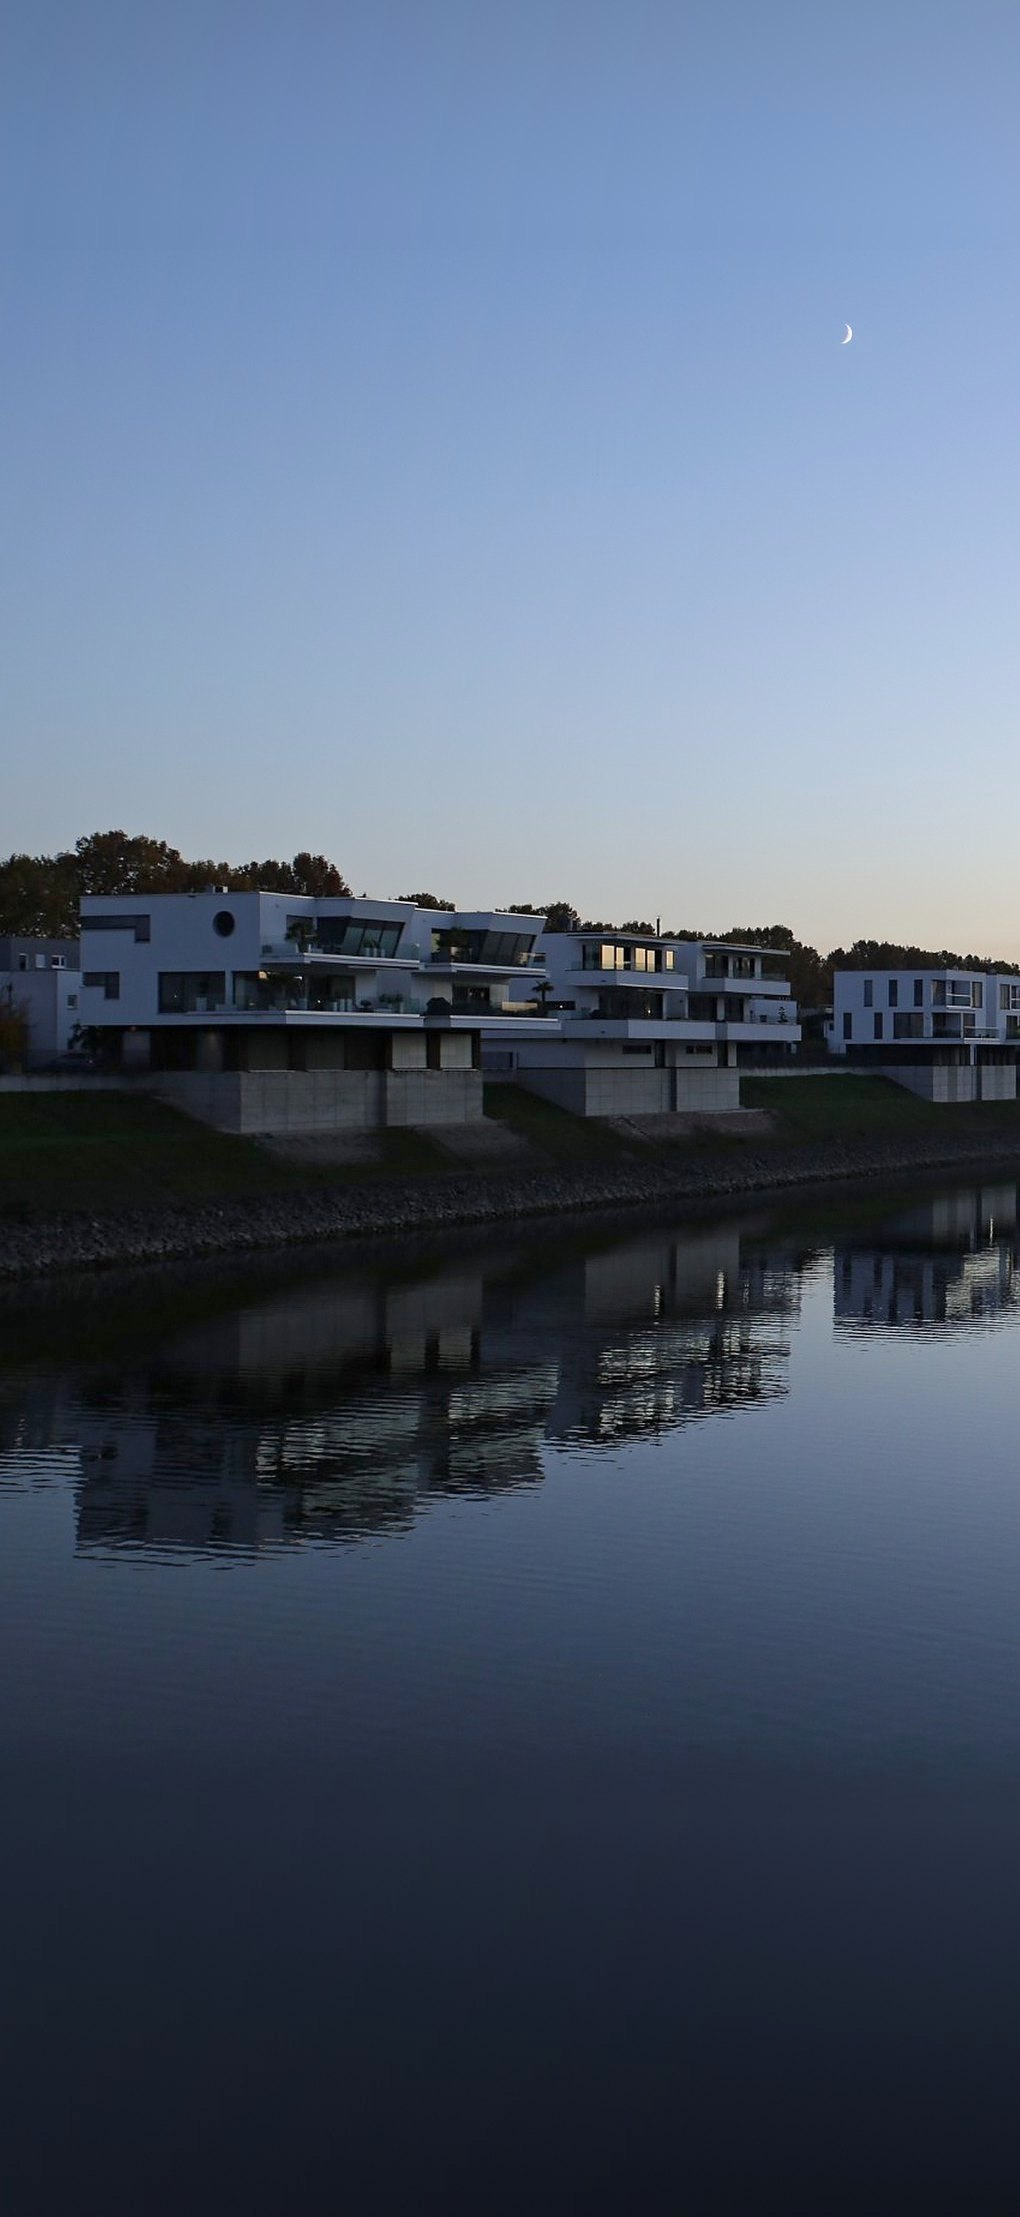
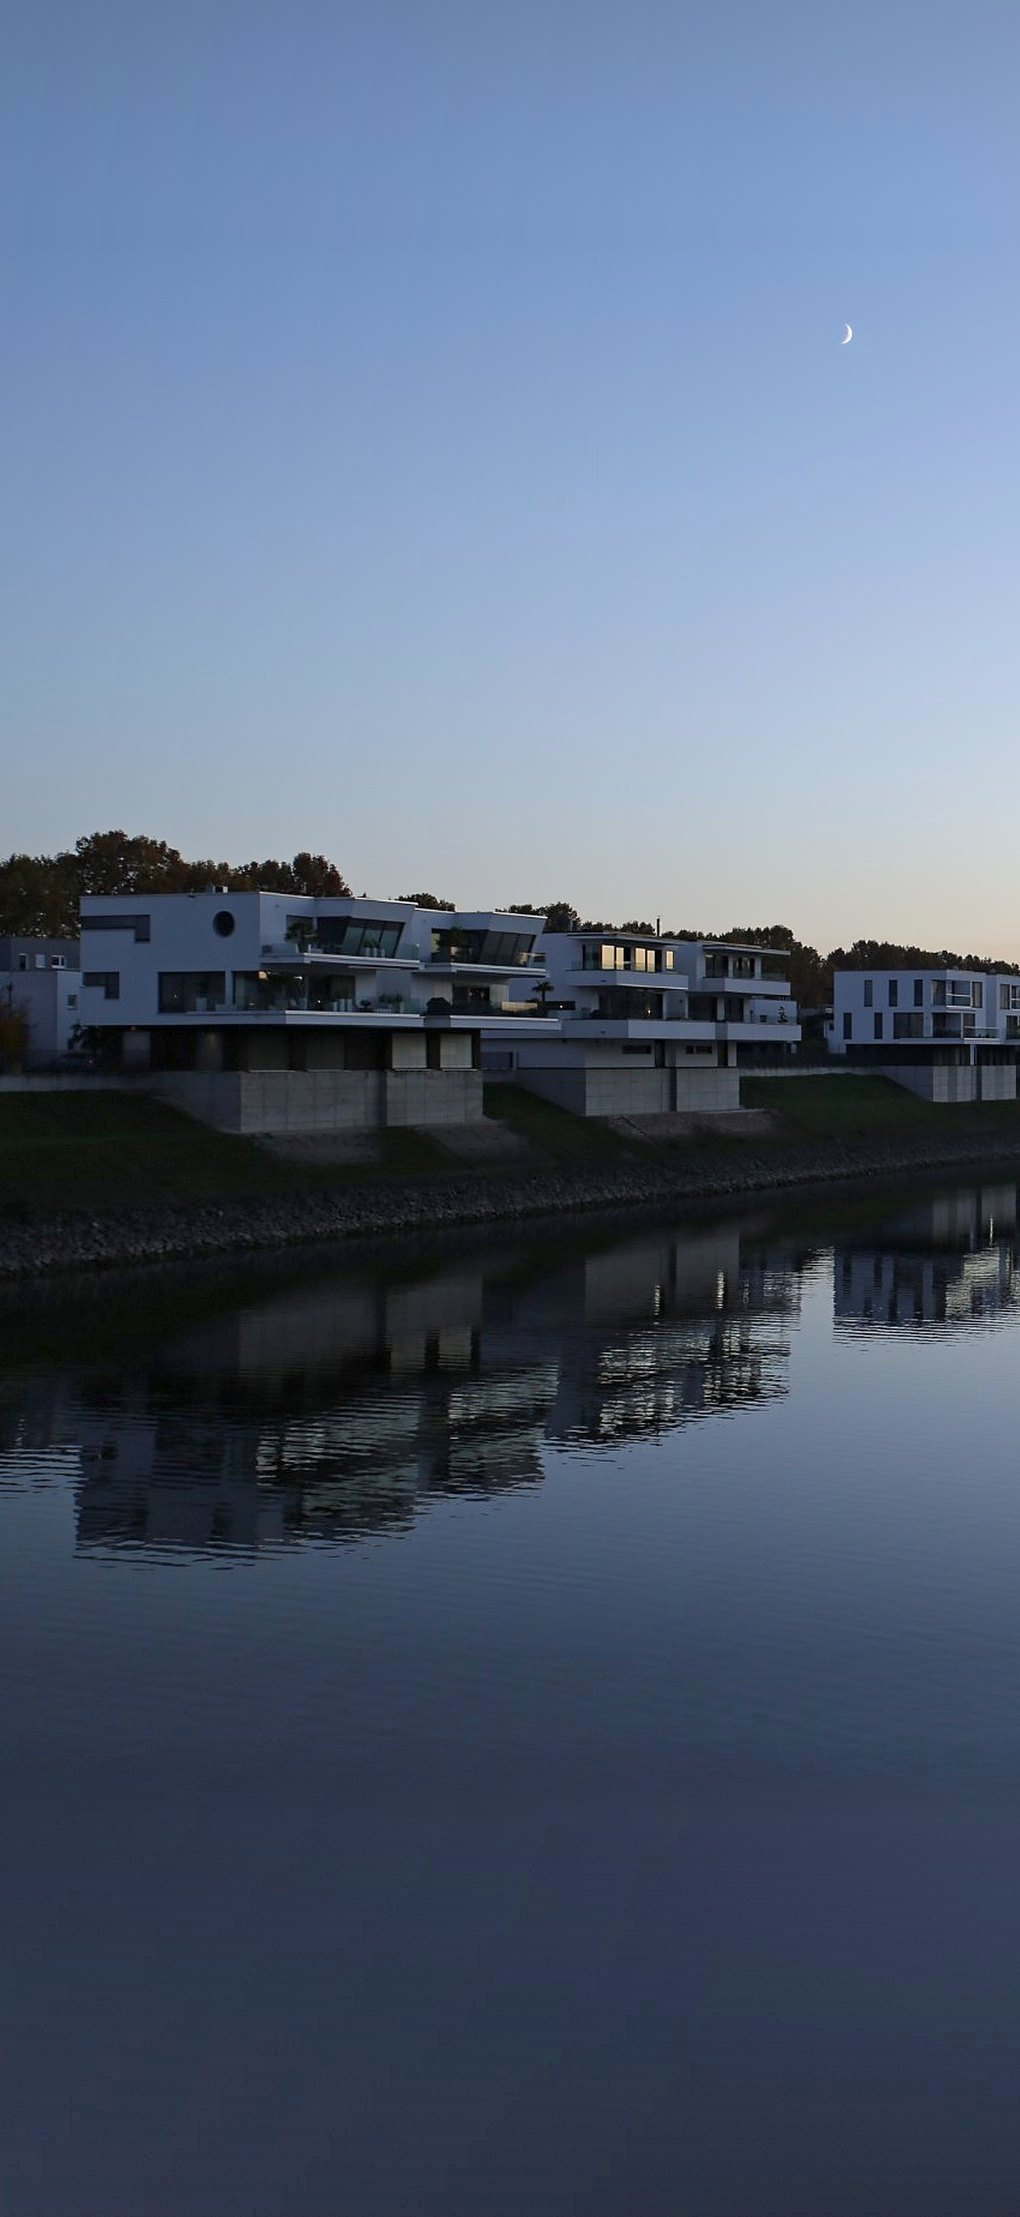
Startseite: Titelbild heller
Claude-Session: https://claude.ai/code/session_01KjZKJU9QDf1vaDn5D4eqGf

Changed region(s): [[0.0, 0.8403, 1.0, 1.0]]

diff --git a/index.html b/index.html
@@ -23,8 +23,8 @@
 <link rel="preload" href="assets/fonts/pinyon-script-latin-400-normal.woff2" as="font" type="font/woff2" crossorigin>
 <link rel="preload" href="assets/fonts/bodoni-moda-latin-standard-normal.woff2" as="font" type="font/woff2" crossorigin>
 <link rel="preload" href="assets/fonts/inter-latin-wght-normal.woff2" as="font" type="font/woff2" crossorigin>
-<link rel="stylesheet" href="assets/style.css?v=20261152">
-<script src="assets/site.js?v=20261152" defer></script>
+<link rel="stylesheet" href="assets/style.css?v=20261153">
+<script src="assets/site.js?v=20261153" defer></script>
 <script type="application/ld+json">{"@context":"https://schema.org","@type":"RealEstateAgent","@id":"https://trg-immobilien.de/#org","name":"Turgut Realty Gate UG (haftungsbeschränkt)","alternateName":"TRG Immobilien","url":"https://trg-immobilien.de/","telephone":"+4917680030389","email":"info@trg-immobilien.de","foundingDate":"2026","founder":{"@type":"Person","name":"Mirac Turgut"},"address":{"@type":"PostalAddress","streetAddress":"Kolpingstraße 4","postalCode":"68165","addressLocality":"Mannheim","addressRegion":"Baden-Württemberg","addressCountry":"DE"},"openingHoursSpecification":[{"@type":"OpeningHoursSpecification","dayOfWeek":["Monday","Tuesday","Wednesday","Thursday","Friday"],"opens":"09:00","closes":"18:00"}],"knowsLanguage":["de","tr"],"areaServed":["Mannheim","Ludwigshafen am Rhein","Heidelberg","Metropolregion Rhein-Neckar"]}</script>
 </head>
 <body>

diff --git a/assets/style.css b/assets/style.css
@@ -748,7 +748,7 @@ body{background:var(--ivory);color:var(--ink)}
 
 /* Handy: weiter herausgezoomtes Hochformat-Bild (Himmel oben ergänzt) */
 @media (max-width:640px){
-  .stage{background-image:url(img/hero-m.jpg?v=5);background-size:cover;background-position:50% 0%}
+  .stage{background-image:url(img/hero-m.jpg?v=6);background-size:cover;background-position:50% 0%}
 }
 
 /* WhatsApp-Knopf erst nach dem Herunterscrollen einblenden */
@@ -799,3 +799,6 @@ body{background:var(--ivory);color:var(--ink)}
 .stage-offer{border-color:rgba(227,211,174,.85)!important;outline-color:rgba(227,211,174,.35)!important}
 .stage-offer-pct{color:#E3D3AE!important}
 
+
+/* Startseite heller: Schleier über dem Titelbild abgeschwächt */
+.stage::before{background:radial-gradient(ellipse 55% 32% at 50% 40%,rgba(8,12,14,.28),rgba(8,12,14,0) 75%),linear-gradient(180deg,rgba(8,12,14,.28),rgba(8,12,14,.08) 45%,rgba(8,12,14,.34))!important}

diff --git a/404.html b/404.html
@@ -24,8 +24,8 @@
 <link rel="preload" href="assets/fonts/pinyon-script-latin-400-normal.woff2" as="font" type="font/woff2" crossorigin>
 <link rel="preload" href="assets/fonts/bodoni-moda-latin-standard-normal.woff2" as="font" type="font/woff2" crossorigin>
 <link rel="preload" href="assets/fonts/inter-latin-wght-normal.woff2" as="font" type="font/woff2" crossorigin>
-<link rel="stylesheet" href="assets/style.css?v=20261152">
-<script src="assets/site.js?v=20261152" defer></script>
+<link rel="stylesheet" href="assets/style.css?v=20261153">
+<script src="assets/site.js?v=20261153" defer></script>
 </head>
 <body>
 <a class="skip" href="#main">Zum Inhalt springen</a>

diff --git a/danke.html b/danke.html
@@ -23,8 +23,8 @@
 <link rel="preload" href="assets/fonts/pinyon-script-latin-400-normal.woff2" as="font" type="font/woff2" crossorigin>
 <link rel="preload" href="assets/fonts/bodoni-moda-latin-standard-normal.woff2" as="font" type="font/woff2" crossorigin>
 <link rel="preload" href="assets/fonts/inter-latin-wght-normal.woff2" as="font" type="font/woff2" crossorigin>
-<link rel="stylesheet" href="assets/style.css?v=20261152">
-<script src="assets/site.js?v=20261152" defer></script>
+<link rel="stylesheet" href="assets/style.css?v=20261153">
+<script src="assets/site.js?v=20261153" defer></script>
 </head>
 <body>
 <a class="skip" href="#main">Zum Inhalt springen</a>

diff --git a/datenschutz.html b/datenschutz.html
@@ -23,8 +23,8 @@
 <link rel="preload" href="assets/fonts/pinyon-script-latin-400-normal.woff2" as="font" type="font/woff2" crossorigin>
 <link rel="preload" href="assets/fonts/bodoni-moda-latin-standard-normal.woff2" as="font" type="font/woff2" crossorigin>
 <link rel="preload" href="assets/fonts/inter-latin-wght-normal.woff2" as="font" type="font/woff2" crossorigin>
-<link rel="stylesheet" href="assets/style.css?v=20261152">
-<script src="assets/site.js?v=20261152" defer></script>
+<link rel="stylesheet" href="assets/style.css?v=20261153">
+<script src="assets/site.js?v=20261153" defer></script>
 </head>
 <body>
 <a class="skip" href="#main">Zum Inhalt springen</a>

diff --git a/impressum.html b/impressum.html
@@ -23,8 +23,8 @@
 <link rel="preload" href="assets/fonts/pinyon-script-latin-400-normal.woff2" as="font" type="font/woff2" crossorigin>
 <link rel="preload" href="assets/fonts/bodoni-moda-latin-standard-normal.woff2" as="font" type="font/woff2" crossorigin>
 <link rel="preload" href="assets/fonts/inter-latin-wght-normal.woff2" as="font" type="font/woff2" crossorigin>
-<link rel="stylesheet" href="assets/style.css?v=20261152">
-<script src="assets/site.js?v=20261152" defer></script>
+<link rel="stylesheet" href="assets/style.css?v=20261153">
+<script src="assets/site.js?v=20261153" defer></script>
 </head>
 <body>
 <a class="skip" href="#main">Zum Inhalt springen</a>

diff --git a/kontakt.html b/kontakt.html
@@ -23,8 +23,8 @@
 <link rel="preload" href="assets/fonts/pinyon-script-latin-400-normal.woff2" as="font" type="font/woff2" crossorigin>
 <link rel="preload" href="assets/fonts/bodoni-moda-latin-standard-normal.woff2" as="font" type="font/woff2" crossorigin>
 <link rel="preload" href="assets/fonts/inter-latin-wght-normal.woff2" as="font" type="font/woff2" crossorigin>
-<link rel="stylesheet" href="assets/style.css?v=20261152">
-<script src="assets/site.js?v=20261152" defer></script>
+<link rel="stylesheet" href="assets/style.css?v=20261153">
+<script src="assets/site.js?v=20261153" defer></script>
 </head>
 <body>
 <a class="skip" href="#main">Zum Inhalt springen</a>

diff --git a/leistungen.html b/leistungen.html
@@ -23,8 +23,8 @@
 <link rel="preload" href="assets/fonts/pinyon-script-latin-400-normal.woff2" as="font" type="font/woff2" crossorigin>
 <link rel="preload" href="assets/fonts/bodoni-moda-latin-standard-normal.woff2" as="font" type="font/woff2" crossorigin>
 <link rel="preload" href="assets/fonts/inter-latin-wght-normal.woff2" as="font" type="font/woff2" crossorigin>
-<link rel="stylesheet" href="assets/style.css?v=20261152">
-<script src="assets/site.js?v=20261152" defer></script>
+<link rel="stylesheet" href="assets/style.css?v=20261153">
+<script src="assets/site.js?v=20261153" defer></script>
 </head>
 <body>
 <a class="skip" href="#main">Zum Inhalt springen</a>

diff --git a/objekte.html b/objekte.html
@@ -23,8 +23,8 @@
 <link rel="preload" href="assets/fonts/pinyon-script-latin-400-normal.woff2" as="font" type="font/woff2" crossorigin>
 <link rel="preload" href="assets/fonts/bodoni-moda-latin-standard-normal.woff2" as="font" type="font/woff2" crossorigin>
 <link rel="preload" href="assets/fonts/inter-latin-wght-normal.woff2" as="font" type="font/woff2" crossorigin>
-<link rel="stylesheet" href="assets/style.css?v=20261152">
-<script src="assets/site.js?v=20261152" defer></script>
+<link rel="stylesheet" href="assets/style.css?v=20261153">
+<script src="assets/site.js?v=20261153" defer></script>
 </head>
 <body>
 <a class="skip" href="#main">Zum Inhalt springen</a>

diff --git a/ueber-uns.html b/ueber-uns.html
@@ -23,8 +23,8 @@
 <link rel="preload" href="assets/fonts/pinyon-script-latin-400-normal.woff2" as="font" type="font/woff2" crossorigin>
 <link rel="preload" href="assets/fonts/bodoni-moda-latin-standard-normal.woff2" as="font" type="font/woff2" crossorigin>
 <link rel="preload" href="assets/fonts/inter-latin-wght-normal.woff2" as="font" type="font/woff2" crossorigin>
-<link rel="stylesheet" href="assets/style.css?v=20261152">
-<script src="assets/site.js?v=20261152" defer></script>
+<link rel="stylesheet" href="assets/style.css?v=20261153">
+<script src="assets/site.js?v=20261153" defer></script>
 </head>
 <body>
 <a class="skip" href="#main">Zum Inhalt springen</a>

diff --git a/vorteile.html b/vorteile.html
@@ -23,8 +23,8 @@
 <link rel="preload" href="assets/fonts/pinyon-script-latin-400-normal.woff2" as="font" type="font/woff2" crossorigin>
 <link rel="preload" href="assets/fonts/bodoni-moda-latin-standard-normal.woff2" as="font" type="font/woff2" crossorigin>
 <link rel="preload" href="assets/fonts/inter-latin-wght-normal.woff2" as="font" type="font/woff2" crossorigin>
-<link rel="stylesheet" href="assets/style.css?v=20261152">
-<script src="assets/site.js?v=20261152" defer></script>
+<link rel="stylesheet" href="assets/style.css?v=20261153">
+<script src="assets/site.js?v=20261153" defer></script>
 </head>
 <body>
 <a class="skip" href="#main">Zum Inhalt springen</a>

diff --git a/widerruf.html b/widerruf.html
@@ -23,8 +23,8 @@
 <link rel="preload" href="assets/fonts/pinyon-script-latin-400-normal.woff2" as="font" type="font/woff2" crossorigin>
 <link rel="preload" href="assets/fonts/bodoni-moda-latin-standard-normal.woff2" as="font" type="font/woff2" crossorigin>
 <link rel="preload" href="assets/fonts/inter-latin-wght-normal.woff2" as="font" type="font/woff2" crossorigin>
-<link rel="stylesheet" href="assets/style.css?v=20261152">
-<script src="assets/site.js?v=20261152" defer></script>
+<link rel="stylesheet" href="assets/style.css?v=20261153">
+<script src="assets/site.js?v=20261153" defer></script>
 </head>
 <body>
 <a class="skip" href="#main">Zum Inhalt springen</a>
